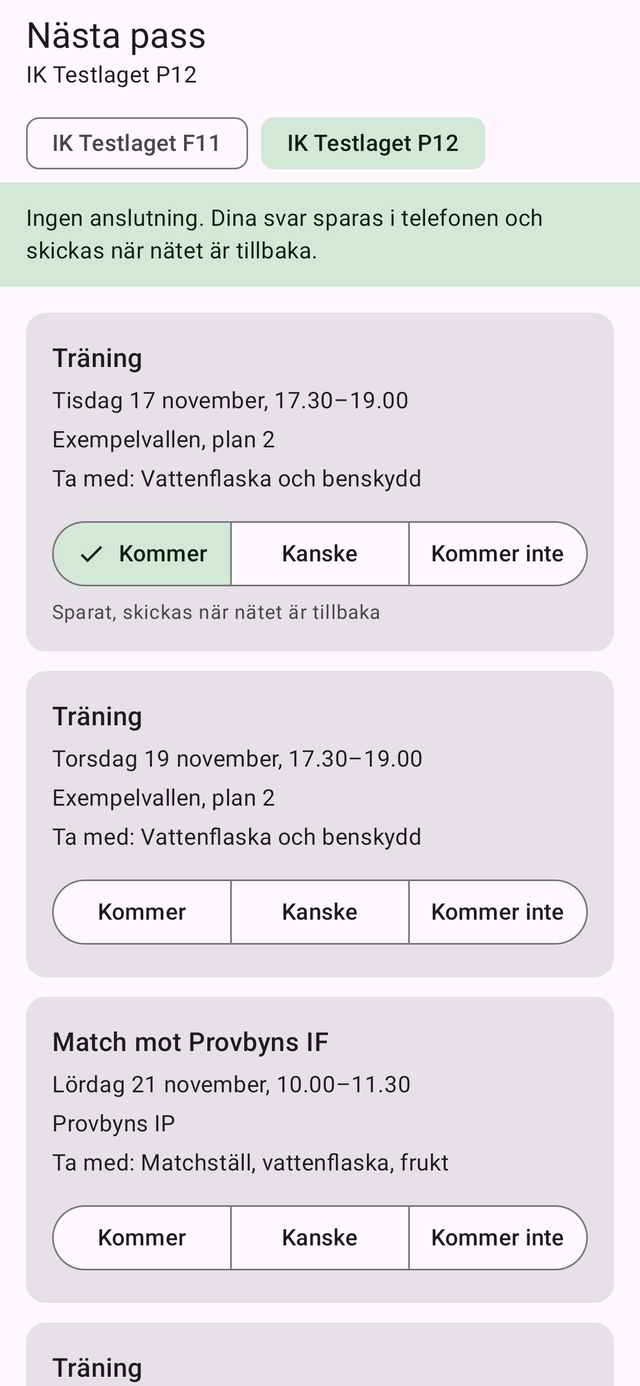
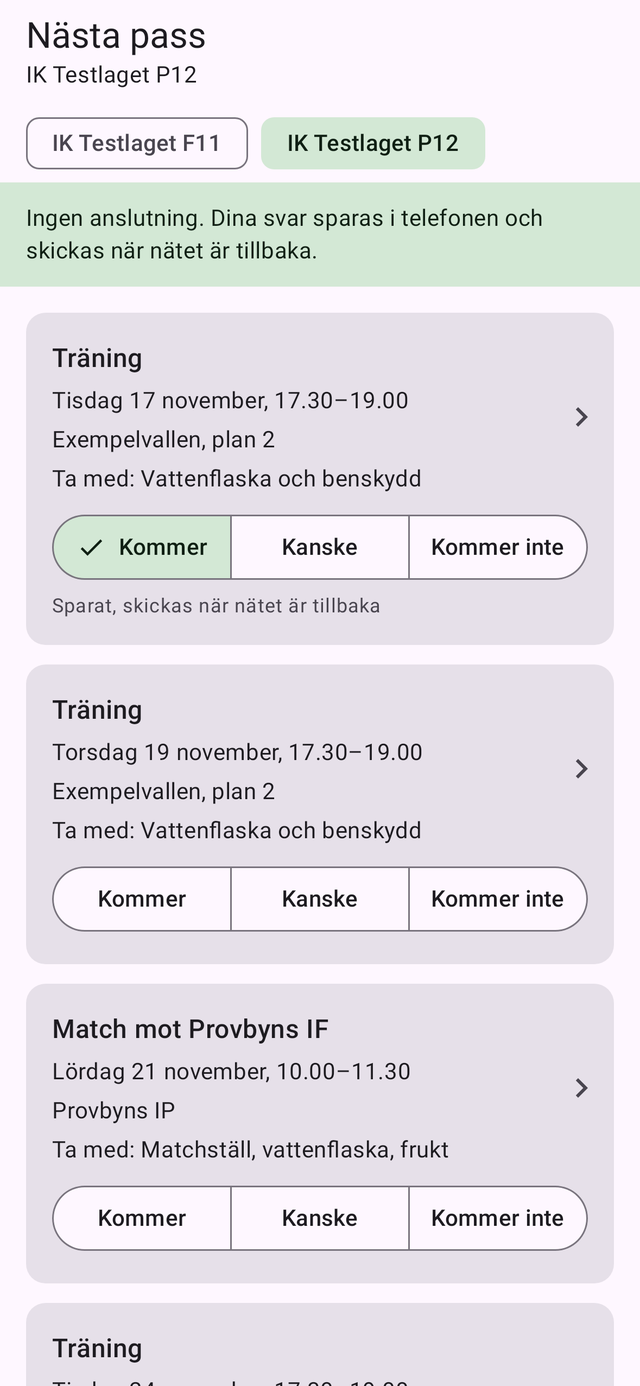
Portfolio: milstolpar för Nästa pass, provläget och slutlig bild

diff --git a/index.html b/index.html
@@ -397,9 +397,20 @@ figure.meny{margin-top:1rem}
     <p class='etikett'>Projekt 4</p>
     <h2>Nästa pass</h2>
     <p class='lead'>En Android-app i Kotlin och Jetpack Compose där spelare och föräldrar svarar på lagets träningar, även utan nät. Byggd 16 till 17 november 2026 och är mitt examensarbete.</p>
-    <dl class='fakta'><div><dt>Teknik</dt><dd>Kotlin och Jetpack Compose, Room som lokal databas, WorkManager för att skicka svaren och en widget i Glance.</dd></div><div><dt>Min del</dt><dd>Samma roll som i de andra projekten.</dd></div></dl>
+    <dl class='fakta'><div><dt>Teknik</dt><dd>Kotlin och Jetpack Compose, Room som lokal databas, WorkManager för att skicka svaren och en widget i Glance.</dd></div><div><dt>Min del</dt><dd>Samma roll som i de andra projekten.</dd></div><div><dt>Provat</dt><dd>Appen är provad med 37 prov i JVM:en på datorn. Provet på riktig telefon görs före redovisningen den 24 november.</dd></div></dl>
    </div>
    <div class='np-bild'><figure><img class='tel' src='bilder/np-utan-nat.png' alt='Nästa pass utan nät: svaret Kommer är sparat och skickas när nätet är tillbaka' width='640' height='1386' loading='lazy' decoding='async'><figcaption><b>Utan nät.</b> Svaret sparas i telefonen. Bilden är ritad ur appens kod i provmiljön, inte tagen på en telefon. Laget är provdata.</figcaption></figure></div>
+  </div>
+  <div class='milstolpar'>
+  <article class='kort milstolpe '>
+ <div class='ms-text'><p class='etikett'>Milstolpe 1, teknikval</p><h3>Svarstabellen är också kön</h3><p>Alternativet var en egen kötabell med en rad per tryck. Jag valde en rad per pass som skrivs över, så att bara det senaste svaret kan skickas.</p></div>
+ <div class='ms-media'><figure><img class='skarm' src='bilder/np-widget.png' alt='Widgeten för Nästa pass utan nät: svaret Kommer är valt och raden under säger Sparat, skickas när nätet är tillbaka' width='1056' height='636' loading='lazy' decoding='async'><figcaption>Widgeten utan nät. Bilden är ritad ur appens kod i provmiljön, inte tagen på en telefon.</figcaption></figure></div>
+</article>
+
+  <article class='kort milstolpe '>
+ <div class='ms-text'><p class='etikett'>Milstolpe 2, ett misstag</p><h3>Widgetens statusrad klipptes bort</h3><p>Det hände i den första bilden av widgeten, fast proven var gröna. Rättelsen blev två storlekar, och båda fotas nu.</p></div>
+ <div class='ms-media'><figure><img class='skarm' src='bilder/np-widget-kompakt.png' alt='Den kompakta widgeten utan nät, med tid och plats på en rad och statusraden synlig' width='1056' height='441' loading='lazy' decoding='async'><figcaption>Den kompakta storleken, där statusraden får plats. Ritad i provmiljön, inte på en telefon.</figcaption></figure></div>
+</article>
   </div>
  </div>
 </section>
@@ -409,7 +420,7 @@ figure.meny{margin-top:1rem}
  <div class='wrap'>
   <div class='slutpanel'>
    <h2>Det jag tar med mig</h2>
-   <p class='lead'>Klart är det först när jag har sett beviset på en riktig skärm. Någon annan än den som byggde ska granska. Och varje misstag ska lämna en skriven regel efter sig, så att nästa släpp går lugnare än det förra.</p>
+   <p class='lead'>Klart är det först när jag har sett beviset på en riktig skärm. Den som granskar ska inte ha sett hur koden kom till. Och varje misstag ska lämna en skriven regel efter sig, så att nästa släpp går lugnare än det förra.</p>
    <div class='lankar'>
     <div><h3>Klubbförsäljning</h3><p><a class='lank' href='https://klubbforsaljning.se'>klubbforsaljning.se</a><br>App Store och Google Play</p></div>
     <div><h3>Klubbhantering</h3><p><a class='lank' href='https://klubbhantering.se'>klubbhantering.se</a></p></div>
